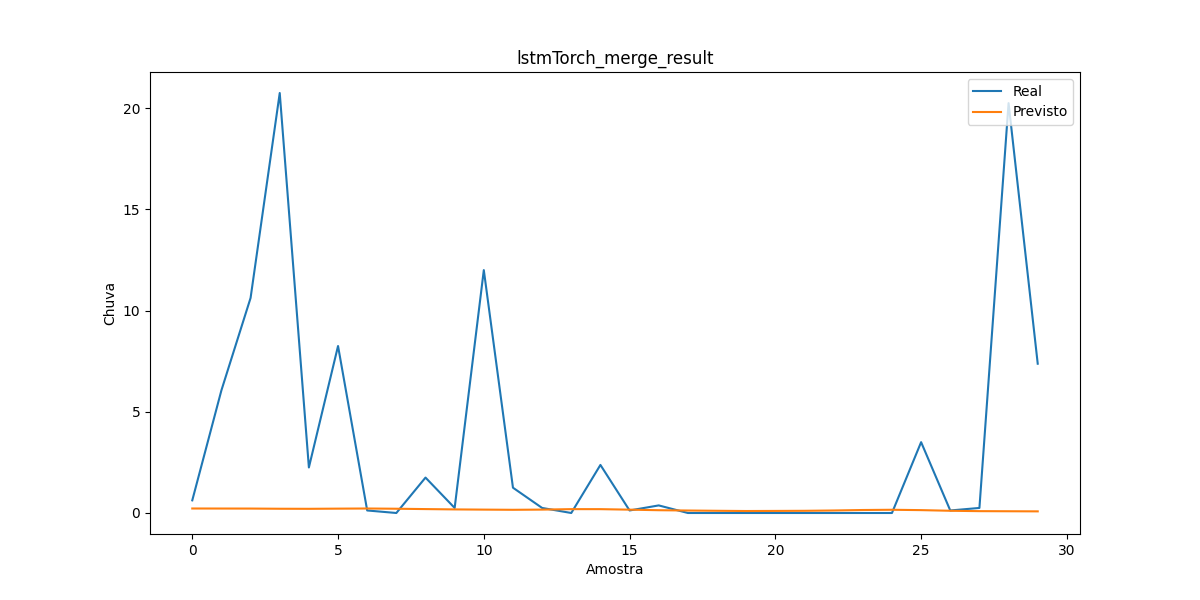
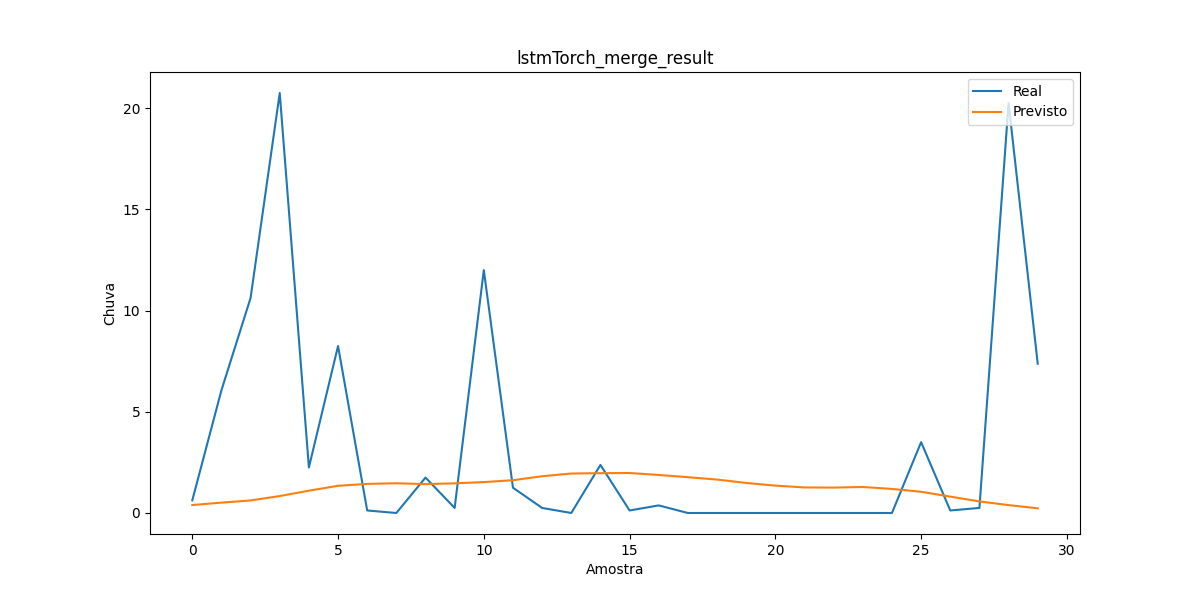
refac

Changed region(s): [[0.1542, 0.81, 0.8633, 0.87], [0.2775, 0.78, 0.6475, 0.81]]

diff --git a/mergeDataset/access_merge.py b/mergeDataset/access_merge.py
@@ -75,13 +75,13 @@ def acessar_dados_merge_lat_long(caminho_base="/home/pbose/tcc/dataset/merge/", 
     datas = []
     lon_conv =  360.0 + long
 
-    #for arq in arquivos:
-    for i in range(100):
+    for arq in arquivos:
+    #for i in range(100):
         try:
-            data_str = os.path.basename(arquivos[i]).replace("MERGE_CPTEC_", "").replace(".grib2", "")
+            data_str = os.path.basename(arq).replace("MERGE_CPTEC_", "").replace(".grib2", "")
             data = datetime.strptime(data_str, "%Y%m%d").date()
 
-            ds = xr.open_dataset(arquivos[i], engine="cfgrib", decode_timedelta=True)
+            ds = xr.open_dataset(arq, engine="cfgrib", decode_timedelta=True)
             var = list(ds.data_vars)[0]
             da = ds[var].squeeze()
            
@@ -91,14 +91,14 @@ def acessar_dados_merge_lat_long(caminho_base="/home/pbose/tcc/dataset/merge/", 
 
             ponto = da.interp({lat_name: lat, lon_name: lon_conv}).squeeze(drop=True)
             valor = float(ponto.values)
-            
+
             chuva.append(valor)
             datas.append(data)
             #logger.info("Lido dia " + data_str)
             ds.close()
             
         except Exception as e:
-            print(f"Erro ao ler {arquivos[i]}: {e}")
+            print(f"Erro ao ler {arq}: {e}")
     
     df = pd.DataFrame({
         "data": pd.to_datetime(datas),

diff --git a/utils/utils.py b/utils/utils.py
@@ -45,7 +45,7 @@ def calcular_erros(logger, dadoReal, dadoPrevisao, thr_mm=1.0):
 
 def desescalar_e_delogar_pred(pred, scaler, timeseries, ts_scaled , train_size, lookback):
     idx_chuva = timeseries.columns.get_loc('chuva')
-    pred_scaled = pred.squeeze(-1).cpu().numpy().reshape(-1)
+    pred_scaled = pred.cpu().numpy().reshape(-1)
     template = ts_scaled[train_size+lookback:train_size+lookback+len(pred_scaled), :].copy()
     # substitua somente a coluna 'chuva' pelo que o modelo previu (em escala)
     template[:, idx_chuva] = pred_scaled
